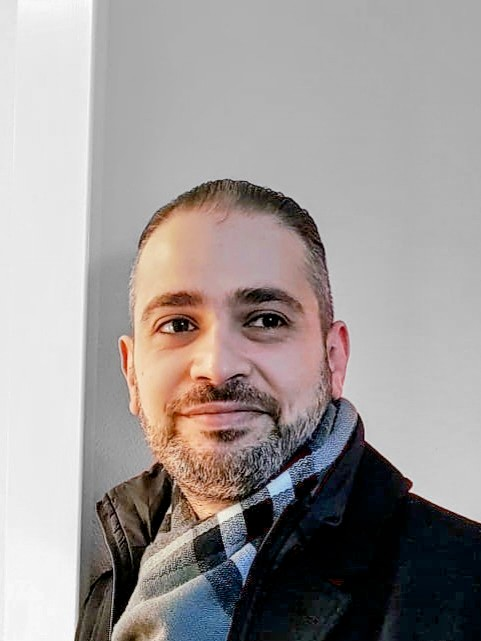
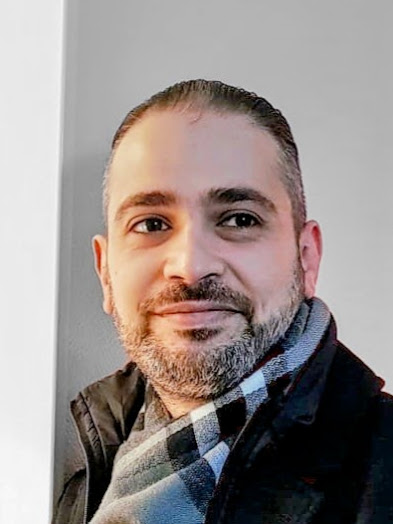
last

diff --git a/main.html b/main.html
@@ -4,22 +4,22 @@
     <meta charset="UTF-8">
     <meta http-equiv="X-UA-Compatible" content="IE=edge">
     <meta name="viewport" content="width=device-width, initial-scale=1.0">
-    <title>Document</title>
+    <title>Noah Akkad</title>
     <link rel="stylesheet" href="./Css/style.css">
 </head>
 <body>
     
-    <div id="avatar"><h1 id="name">NOAH AKKAD</h1><img src="./IMG-20220725-WA0002_3.jpg" alt="avatar"></div>
-    <div class="site-nav">
-        <nav role="navigation">
-          <ul class="nav justify-content-center">
-            <li class="nav-item"><a class="nav-link" href="https://twitter.com/templateflip" title="Twitter"><i class="fab fa-twitter"></i><span class="menu-title sr-only">Twitter</span></a>
+    <div id="avatar"><h1 id="name">NOAH AKKAD</h1><img src="./img/IMG-20220725-WA0002_3.jpg" alt="avatar picture"></div>
+    <div>
+        <nav>
+          <ul>
+            <li><a href="https://twitter.com/" title="Twitter" target="_blank"><span>Twitter</span></a>
             </li>
-            <li class="nav-item"><a class="nav-link" href="https://www.facebook.com/templateflip" title="Facebook"><i class="fab fa-facebook"></i><span class="menu-title sr-only">Facebook</span></a>
+            <li><a href="https://www.facebook.com/" title="Facebook" target="_blank"><span>Facebook</span></a>
             </li>
-            <li class="nav-item"><a class="nav-link" href="https://www.instagram.com/templateflip" title="Instagram"><i class="fab fa-instagram"></i><span class="menu-title sr-only">Instagram</span></a>
+            <li><a href="https://www.instagram.com/" title="Instagram" target="_blank"><span>Instagram</span></a>
             </li>
-            <li class="nav-item"><a class="nav-link" href="https://github.com/templateflip" title="Github"><i class="fab fa-github"></i><span class="menu-title sr-only">Github</span></a>
+            <li><a href="https://github.com/" title="Github" target="_blank"><span>Github</span></a>
             </li>
           </ul>
         </nav>
@@ -28,21 +28,21 @@
         <ul>
         <li><a href="./main.html">CV</a></li>
         <li><a href="./contact-me.html">Contact Me</a></li>
-        <li><a href="#Down"> Down the page </a></li>
+        <li><a href="#Down"> Go down </a></li>
     </ul> 
-</div>
+    </div>
     <div id="presentation">
         <h2>About ME</h2>
-        <p>My name is Noah Akkad and I am an interior designer I have worked in my field for more a 10 years, in many countries.<br>
-        After the war in my country, I moved to Sweden in 2014.<br>
+        <p>My name is Noah Akkad and I am an interior designer I have worked in my field for more than 10 years, in many countries.<br>
+        After the war in my country, I moved to <strong><i>Sweden</i></strong> in 2014.<br>
         I started building a new life for myself because my old field of work is not available in abundance here in Sweden and job opportunities are very few.<br>
-        I decided to start realizing my dream and learning to program because I have a great passion for this field.<br> 
-        I have already come a long way in studying programming, where I took a lot of courses from the famous Coursera website, freeCodeCamp.org, NTI School, and also codecademy.com.</p>
+        I decided to start realizing my dream and learning to programming because I have a great passion for this field.<br> 
+        I have already come a long way in studying programming, where I took a lot of courses from the Coursera website, freeCodeCamp.org, NTI School, and also codecademy.com.</p>
     </div>
     <div id="gallory">
-        <img src="./1_View06.jpg" alt="">
-        <img src="./1_View06.jpg" alt="">
-        <img src="./1_View06.jpg" alt="">
+        <img src="./img/1_View06.jpg" alt="picture of work">
+        <img src="./img/1_View03.jpg" alt="picture of work">
+        <img src="./img/1 (128).jpg" alt="picture of work">
     </div>
     <div>
         
@@ -66,17 +66,18 @@
     <div>
         <h3><i>Five words that describe me</i></h3>
         <ul>
-            <li>Creative</li>
-            <li>Social</li>
-            <li>Active</li>
-            <li>Patient</li>
+            <li>Creative |</li>
+            <li>Social |</li>
+            <li>Active |</li>
+            <li>Patient |</li>
             <li>Open minded</li>
         </ul>
     </div>
     <div id="footer">
         <p>noah.akkad@gmail.com | 0736156631 | Nasaret9,Väröbacka 43265, Varberg</p>
+        
     </div>
-    <a href="Down"></a>
+    <a id ="Down"></a>
 </body>
 
 </html>

diff --git a/Css/style.css b/Css/style.css
@@ -8,28 +8,37 @@ body {
     background-color: #f5f7fa;
     -webkit-text-size-adjust: 100%;
     -webkit-tap-highlight-color: transparent;
+    font-family:'Franklin Gothic Medium', 'Arial Narrow', Arial, sans-serif;
 }
 h1 , nav, ul ,p , h2, #footer, h3,#gallory, #avatar {
-    text-align: center;
+    text-align: center;  
 }
 h1 {
+    margin: 10px;
+    padding: 0px;
     font-weight: bold;
     font-size: 3.5rem;
+    text-shadow:0px 4px 3px rgba(181, 181, 181, 0.434);
 }
-#avatar img {   
+h2 , h3 {
+    text-shadow:0px 4px 3px rgba(0, 0, 0, 0.412);
+}
+#avatar img {
     margin-right: auto;
     margin-left: auto;
-    border-radius: 50%;
+    width: 150px;
+    height: 200px;
+    border-radius: 10%;
     border: 2px solid rgb(255, 255, 255);
     padding: 5px;
-    -webkit-border-radius: 50%;
-    -moz-border-radius: 50%;
-    -ms-border-radius: 50%;
-    -o-border-radius: 50%;
+    -webkit-border-radius: 10%;
+    -moz-border-radius: 10%;
+    -ms-border-radius: 10%;
+    -o-border-radius: 10%;
 }
 img {
-    margin-right: 50px;
-    width: 50%;
+    margin-right: auto;
+    margin-left: auto;
     width: 170px;
     height: 170px;
     border-radius: 50%;
@@ -50,50 +59,18 @@ nav li, div li {
     -ms-border-radius: 25px;
     -o-border-radius: 25px;
 }
-
-
-
-/*body {
-    background-color: pink;
+fieldset{
+    margin: 50px;
+    font-family: Arial, Helvetica, sans-serif;
+    padding: 20px;
+    border-radius: 10px; 
+    border-color: rgb(3, 3, 3);
+    text-shadow:0px 4px 6px black; 
+    line-height: 1.6em;
+    text-align: left;
 }
-#name {font-family: Impact, Haettenschweiler, fantasy;
-    font-size: 300%; text-align: center; font-weight: bold; color: mediumvioletred;}
-
-#header {font-family: Arial, Helvetica, sans-serif; font-size: 100%;
-    text-align: center; color: black; text-transform: uppercase; }
-
-a {color:  mediumvioletred; text-decoration: none;}
-#presentation {position: relative; top: 5px; left: 20px; font-family: Arial, Helvetica, sans-serif; font-size: 120%;}
- 
-h2 { color: mediumvioletred; text-transform: uppercase;}
-#my-study {font-family: Arial, Helvetica, sans-serif; font-size: 120%;position: relative; top: 5px; left: 20px;}
-
-img.align-right {float: right; width:15%;height: 10%; margin-right: 100px; 
-    ;background-color: mediumvioletred; padding: 9px;}
-
-img.align-left { float: left; margin-right: 10px; margin-left: 20px;
-    width: 200px; height: 150px; background-color: mediumvioletred; padding: 9px;  }
-
-
-h3 {text-align: justify; color: mediumvioletred;position: relative; top: 5px; left: 20px;font-family: Arial, Helvetica, sans-serif; }
-ul {list-style-type: circle; width: 250px; text-align: justify; font-family: Arial, Helvetica, sans-serif; }
-li { margin: 10px;}
-
-input {background-color: mediumvioletred; color: black; text-align: left;
-     font-weight: bold;font-size: 100%;font-family: Arial, Helvetica, sans-serif; width: 100%;}
-
-legend{font-family: Arial, Helvetica, sans-serif;text-transform: uppercase;color: black;}
-
-fieldset{width: 500px;font-family: Arial, Helvetica, sans-serif;padding: 20px;
-     border-radius: 10px; border-color: mediumvioletred;text-shadow:0px 4px 6px black; line-height: 1.6em;text-align: left;}
-
-input#button {border-radius:10px black;padding: 10px 20px; text-shadow:0px 4px 6px black; border-bottom:5px solid black; width: auto;}
-
-#message{background-color: mediumvioletred;color: black; border-color: black;border-width:2px;
- text-align: left;font-family: Arial, Helvetica, sans-serif;font-size: 100%;font-weight: bold; width: 100%;}
-
-input#name{color: black;font-family: Arial, Helvetica, sans-serif;font-size: 100%;text-align: left;}
-
-hr{background-color:  black;border-width: 1px;border-color: black;}
-
-#footer{text-align: center;font-size: 100%;font-weight: bold;font-family: Arial, Helvetica, sans-serif; color: #10GA23;}*/
+#footer {
+    margin: 0px;
+    padding: 1px;
+    background-color: rgba(44, 43, 42, 0.172);
+}

diff --git a/contact-me.html b/contact-me.html
@@ -4,15 +4,18 @@
     <meta charset="UTF-8">
     <meta http-equiv="X-UA-Compatible" content="IE=edge">
     <meta name="viewport" content="width=device-width, initial-scale=1.0">
-    <title>Document</title>
+    <title>Contact Me</title>
+    <link rel="stylesheet" href="./Css/style.css">
 </head>
 <body>
-    <h1 id="name" >NOAH AKKAD</h1>
-    <div id="header" >
-        <a href="./main.html">CV</a> | <a href="./contact-me.html">Contact Me</a> |
-            <a href="#Down">Down the page</a>
-      
-    </div><!--end of header-->
+    <div id="avatar"><h1 id="name">NOAH AKKAD</h1><img src="./img/IMG-20220725-WA0002_3.jpg" alt="avatar"></div>
+    <div id="header">
+        <ul>
+        <li><a href="./main.html">CV</a></li>
+        <li><a href="./contact-me.html">Contact Me</a></li>
+        <li><a href="#Down"> Go down  </a></li>
+    </ul> 
+    </div>
     <hr />
     <form action="" style="font-size:vw">
         <fieldset style="font-size:vw" >
